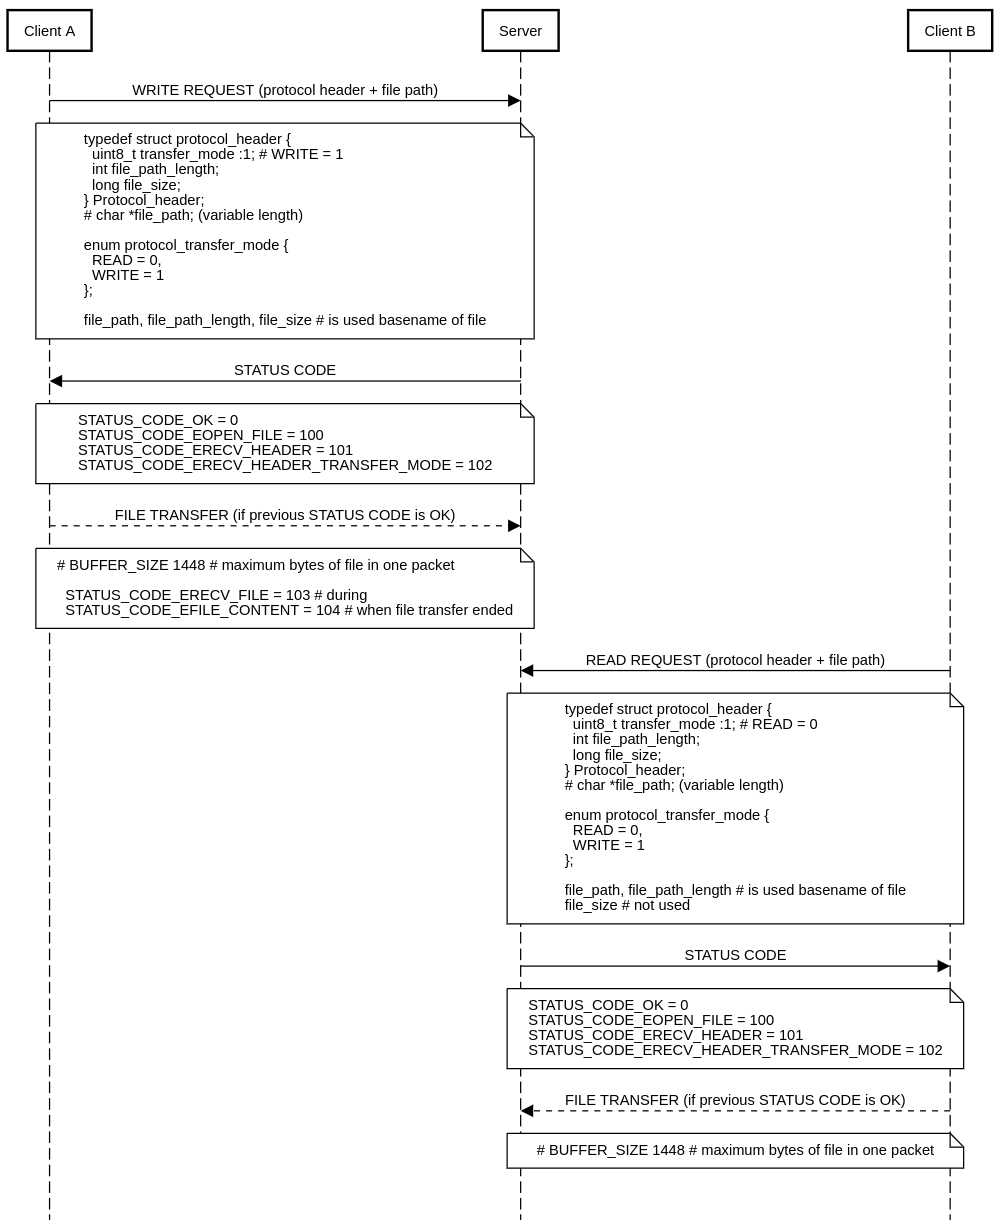
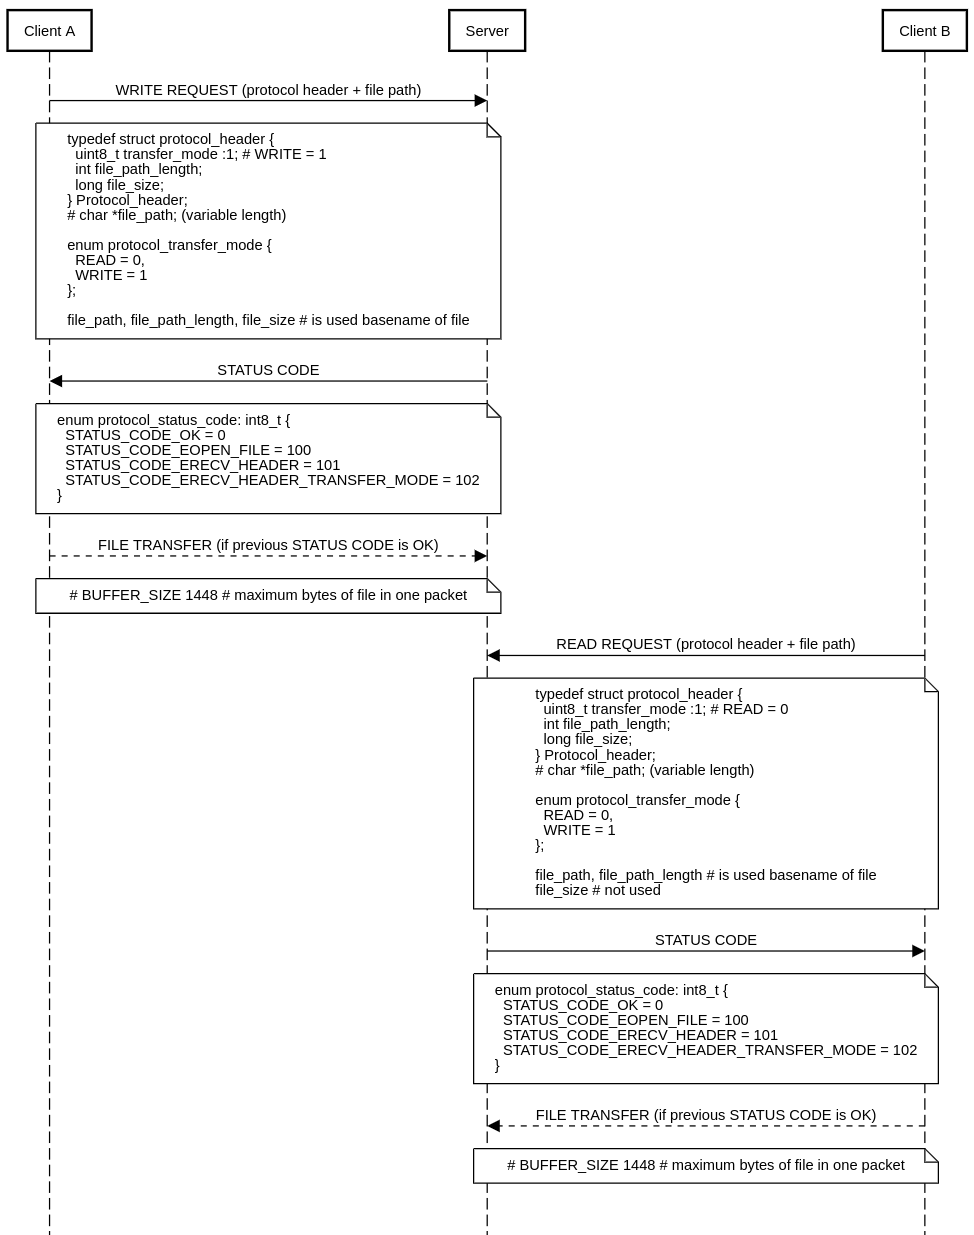
sequence diagram #11

diff --git a/src/ipk-server/ipk-server.cpp b/src/ipk-server/ipk-server.cpp
@@ -54,7 +54,7 @@ void serverEnd(TParams* params, int node_index) {
 }
 
 void* handleClientThread(void *threadarg) {
-  int ecode = EOK;
+  uint8_t ecode = EOK;
 
   // thread args
   struct pthread_args *pthread_args = (struct pthread_args *) threadarg;
@@ -79,7 +79,7 @@ void* handleClientThread(void *threadarg) {
   // incoming header
   if(recv(sock, buffer, IP_MAXPACKET, 0) < 0) {
     ecode = STATUS_CODE_ERECV_HEADER;
-    send(sock, &ecode, 1, 0);
+    send(sock, &ecode, sizeof(ecode), 0);
     cleanClientThread(buffer, file_path, sock);
     serverError(params, node_index, ecode, getStatusCodeMessage(ecode));
     pthread_exit(NULL);
@@ -112,7 +112,7 @@ void* handleClientThread(void *threadarg) {
     fstream file (std::string(cwd) + std::string("/") + basename(file_path), fstream::out | fstream::binary | fstream::trunc);
     if(!file.is_open()) {
       ecode = STATUS_CODE_EOPEN_FILE;
-      send(sock, &ecode, 1, 0);
+      send(sock, &ecode, sizeof(ecode), 0);
       cleanClientThread(buffer, file_path, sock);
       serverError(params, node_index, ecode, getStatusCodeMessage(ecode));
       file.close();
@@ -120,7 +120,7 @@ void* handleClientThread(void *threadarg) {
     }
 
     // opened => OK
-    send(sock, &ecode, 1, 0);
+    send(sock, &ecode, sizeof(ecode), 0);
 
     // receive file
     if((ecode = receiveFileToFileStream(file, sock, BUFFER_SIZE))) {
@@ -142,14 +142,14 @@ void* handleClientThread(void *threadarg) {
     fstream file (std::string(cwd) + std::string("/") + basename(file_path), fstream::in | fstream::binary);
     if(!file.is_open()) {
       ecode = STATUS_CODE_EOPEN_FILE;
-      send(sock, &ecode, 1, 0);
+      send(sock, &ecode, sizeof(ecode), 0);
       cleanClientThread(buffer, file_path, sock);
       serverError(params, node_index, ecode, getStatusCodeMessage(ecode));
       pthread_exit(NULL);
     }
 
     // opened => OK
-    send(sock, &ecode, 1, 0);
+    send(sock, &ecode, sizeof(ecode), 0);
 
     // send file
     if((ecode = sendFileFromFileStream(file, sock, BUFFER_SIZE))) {
@@ -166,14 +166,14 @@ void* handleClientThread(void *threadarg) {
   // else
   } else {
     ecode = STATUS_CODE_ERECV_HEADER_TRANSFER_MODE;
-    send(sock, &ecode, 1, 0);
+    send(sock, &ecode, sizeof(ecode), 0);
     cleanClientThread(buffer, file_path, sock);
     serverError(params, node_index, ecode, getStatusCodeMessage(ecode));
     pthread_exit(NULL);
   }
 
   // clean
-  //cleanClientThread(buffer, file_path, sock);
+  cleanClientThread(buffer, file_path, sock);
   serverEnd(params, node_index);
 
   pthread_exit(NULL);

diff --git a/src/ipk-protocol/ipk-protocol.h b/src/ipk-protocol/ipk-protocol.h
@@ -8,7 +8,8 @@
 #define _ipk_protocol_H_
 
 #include <stdint.h>
-
+#include <cstdint>
+ 
 #define BUFFER_SIZE 1448
 
 #pragma pack(push, 1)
@@ -25,7 +26,7 @@ enum protocol_transfer_mode {
   WRITE = 1
 };
 
-enum protocol_status_code {
+enum protocol_status_code: int8_t {
   STATUS_CODE_OK = 0,
   STATUS_CODE_EOPEN_FILE = 100,
   STATUS_CODE_ERECV_HEADER = 101,
